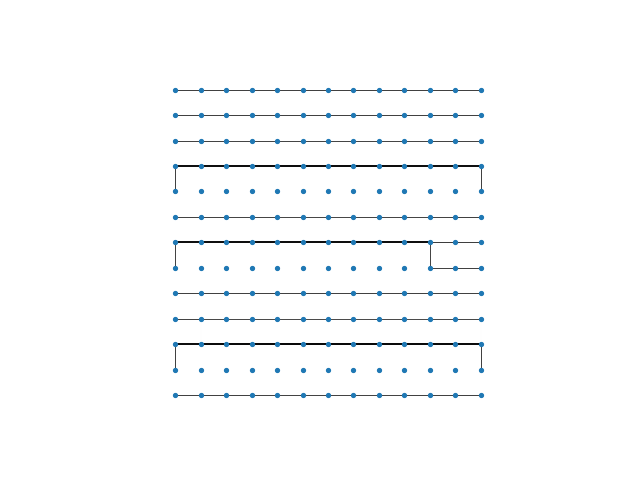
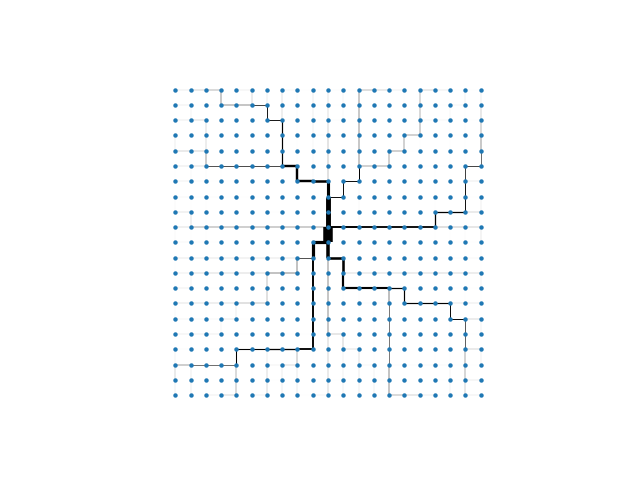
concentric source-sink, as in real retinas!

Changed region(s): [[0.25, 0.1875, 0.7812, 0.8438], [0.25, 0.5312, 0.2812, 0.5625], [0.25, 0.375, 0.2812, 0.4062]]

diff --git a/Angiogenesis.py b/Angiogenesis.py
@@ -71,7 +71,7 @@ def generate_grid_graph(dim_A, dim_B, periodic=False, hexagonal=False, triangula
 
 
 def generate_physical_values(graph, source_value, incidence_matrix, corridor_model=False, two_capacitor_plates_model=False,
-                             one_capacitor_plates_model=False, three_sides_model=False, quater_model=False, square=False, triangular=False):
+                             one_capacitor_plates_model=False, three_sides_model=False, quater_model=False, square_concentric_model=False, triangular=False):
     dimension = np.shape(incidence_matrix)[0]
     edges_dim = np.shape(incidence_matrix)[1]
 
@@ -161,21 +161,25 @@ def generate_physical_values(graph, source_value, incidence_matrix, corridor_mod
         print(last_index)
         print(half_nodes_on_one_side)
 
-    """
+
     # source for square lattice -- eye retina model
-    if square_:
+    # works only for odd number of rows/columns -- only then a central node exists
+    if square_concentric_model:
         source_list = np.zeros(dimension)                            # vector from nodes space
         source_list[int((dimension-1)/2)] = source_value             # source in the center
-        number_of_bordering_nodes = 4*np.sqrt(dimension)-4
+        number_of_boundary_nodes = 4*np.sqrt(dimension)-4
         last_index = int(np.sqrt(dimension)-1)
         iterator = 0
-        for node in graph.nodes:        # accessing nodes on the border of the network
-            if node[0] == 0 or node[0] == last_index or  node[1] == 0 or node[1] == last_index:
-                source_list[iterator] = source_value/number_of_bordering_nodes  # number of nodes on the border
-                print(node)
+        for node in graph.nodes:        # accessing nodes on the boundaries of the network
+            if node[0] == 0 or node[0] == last_index or node[1] == 0 or node[1] == last_index:
+                source_list[iterator] = -source_value/number_of_boundary_nodes
+                #print(node)
             iterator += 1
-       # print(-source_value / (4*np.sqrt(dimension)-4))
+        print(number_of_boundary_nodes)
+        print(-source_value / (4*np.sqrt(dimension)-4) * iterator)
+        print(source_value)
 
+    """
     if triangular:
         source_list = np.zeros(dimension)
         source_list[int((dimension - 1) / 2)] = source_value

diff --git a/Simulation.py b/Simulation.py
@@ -7,7 +7,7 @@ start_time = time.time()
 
 hexagonal = 0
 triangular = 0
-m = 13
+m = 21
 number_of_nodes = m*m
 #adjacency_matrix = an.generate_random_adjacent_matrix(number_of_nodes)
 # random graph
@@ -19,7 +19,7 @@ incidence_matrix, graph, nodes_data, edges_data = an.generate_grid_graph(m, m, h
 
 source_value = 2
 incidence_T_inv, x, x_dagger, incidence_inv, incidence_T, source_list, pressure_list, length_list, conductivity_list, flow_list, pressure_diff_list = \
-    an.generate_physical_values(graph, source_value, incidence_matrix, corridor_model=0, two_capacitor_plates_model=1, one_capacitor_plates_model=0, quater_model=0, triangular=triangular)
+    an.generate_physical_values(graph, source_value, incidence_matrix, corridor_model=0, two_capacitor_plates_model=0, one_capacitor_plates_model=0, square_concentric_model=1, triangular=triangular)
 
 arguments = {'pressure_list': pressure_list, 'length_list': length_list, 'conductivity_list': conductivity_list,
              'flow_list': flow_list, 'pressure_diff_list': pressure_diff_list, 'incidence_matrix': incidence_matrix,
